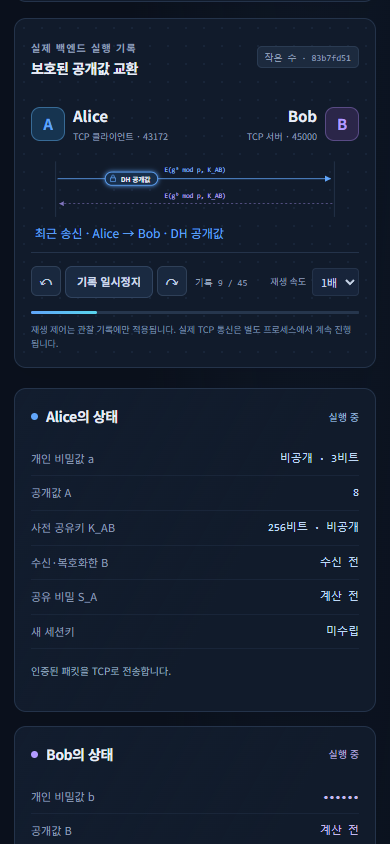
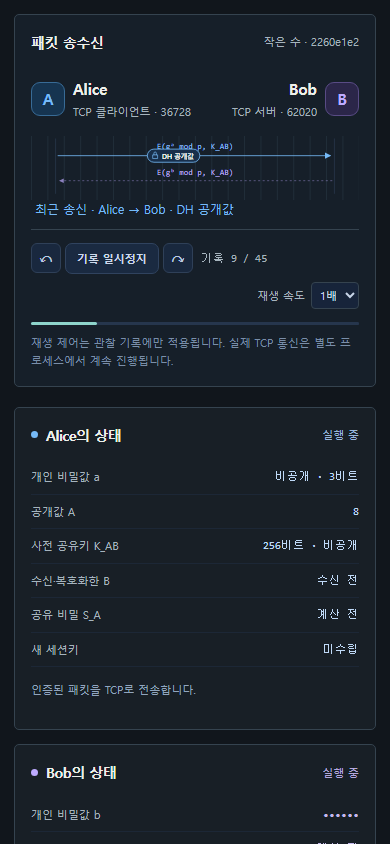
Refine the protocol lab interface and documentation media

diff --git a/web/style.css b/web/style.css
@@ -1,14 +1,105 @@
-:root{color-scheme:dark;--bg:#0a101c;--panel:#111b2b;--panel2:#142034;--line:#24334a;--text:#e7edf7;--muted:#8c9db5;--cyan:#59d5ec;--blue:#60a5fa;--violet:#b29bff;--green:#68ddb1;--amber:#f6c875;--red:#ff8b9a;--mono:Consolas,'Cascadia Code',monospace}
-*{box-sizing:border-box}body{margin:0;background:radial-gradient(ellipse at 80% 0,#15263b66,transparent 45%),var(--bg);color:var(--text);font-family:Inter,'Pretendard','Noto Sans KR','Malgun Gothic',system-ui,sans-serif;font-size:14px;line-height:1.6}button,input,select,textarea{font:inherit}button,a,select{touch-action:manipulation}button{cursor:pointer}button:disabled{opacity:.45;cursor:wait}button:focus-visible,a:focus-visible,select:focus-visible,textarea:focus-visible{outline:2px solid var(--cyan);outline-offset:4px}a{color:var(--cyan);text-decoration:none}h1,h2,h3,p{margin:0}h2{font-size:16px;letter-spacing:-.4px}h3{font-size:18px;letter-spacing:-.5px}small{font-size:11px}svg{display:block}.hidden{display:none!important}.site-header{min-height:82px;padding:0 38px;display:flex;align-items:center;gap:28px;border-bottom:1px solid var(--line);background:#0b1322cc}.brand{display:flex;align-items:center;gap:12px;line-height:1.35;font-weight:700;color:var(--text);font-size:17px;white-space:nowrap}.brand small{display:block;margin-top:5px;color:var(--muted);font-weight:400;font-size:10px;letter-spacing:.6px}.brand-icon{padding:10px;border:1px solid #2f5771;border-radius:12px;background:#122a3c}.brand-icon svg{width:23px;fill:none;stroke:var(--cyan);stroke-width:1.6;stroke-linecap:round;stroke-linejoin:round}.tabs{display:flex;align-self:stretch;gap:26px;margin-left:auto}.tab{position:relative;background:none;border:0;color:var(--muted);font-weight:600;padding:0 5px;font-size:13px}.tab.active{color:var(--cyan)}.tab.active:after{content:'';position:absolute;bottom:0;height:3px;background:var(--cyan);left:0;right:0}.local-badge{display:flex;gap:8px;align-items:center;margin-left:22px;border:1px solid #29443d;color:#a5d8c5;border-radius:20px;padding:5px 12px;font-size:11px;white-space:nowrap}.dot{width:6px;height:6px;display:inline-block;border-radius:50%;background:var(--green);box-shadow:0 0 8px #68ddb133}.page{max-width:1640px;margin:auto;padding:30px 38px 0}.page-heading{display:flex;justify-content:space-between;align-items:center;gap:20px;margin-bottom:25px}.eyebrow{color:var(--muted);font-size:10px;letter-spacing:1.2px;font-weight:600}.page-heading .eyebrow{color:var(--cyan);margin-bottom:7px}h1{font-size:clamp(23px,2.2vw,32px);letter-spacing:-1.2px;font-weight:700;line-height:1.4}.page-heading p{color:var(--muted);margin-top:7px;font-size:13px}.execution-badge{padding:8px 14px;border:1px solid var(--line);border-radius:8px;font-size:12px;white-space:nowrap;background:#122032}.execution-badge .dot{margin-right:8px}.execution-badge.error{color:var(--red)}.facts{display:grid;grid-template-columns:repeat(4,1fr);gap:14px;margin-bottom:25px}.facts>div{display:flex;align-items:center;gap:13px;padding:16px 18px;background:#111c2b99;border:1px solid var(--line);border-radius:10px}.facts small{display:block;color:var(--muted);margin-bottom:3px}.facts strong{font-size:12px;font-weight:600}.fact-icon{color:var(--blue);font-size:24px;line-height:1;padding-right:5px}.lab-layout{display:grid;grid-template-columns:260px minmax(0,1fr);gap:22px;align-items:start}.panel{border:1px solid var(--line);border-radius:12px;background:linear-gradient(120deg,#13203455,transparent 60%),var(--panel);padding:22px;min-width:0;box-shadow:0 10px 30px #0000000a}.panel-title{display:flex;justify-content:space-between;align-items:center;gap:10px;margin-bottom:20px}.panel-title>div .eyebrow{margin-bottom:4px}.small-tag{font:10px var(--mono);color:var(--muted);background:#1c2a3e;border:1px solid #2a3b52;padding:4px 7px;border-radius:5px;white-space:nowrap}.settings{position:sticky;top:20px;padding:20px}.settings .panel-title{margin-bottom:24px}.settings label{display:block;font-size:12px;font-weight:600;color:#b9c8dc;margin-bottom:8px}.settings select,.settings textarea{width:100%;background:#0c1524;border:1px solid #2e4059;border-radius:7px;padding:10px 11px;color:var(--text);font-size:12px;line-height:1.6}.settings select{padding-right:20px}.settings textarea{resize:vertical;min-height:90px}.parameters{padding:13px 1px 7px}.parameters>div{display:flex;justify-content:space-between;gap:8px;font-size:11px;padding:5px 0}.parameters span{color:var(--muted)}.parameters strong{font-weight:500;font-family:var(--mono);color:#b4c3d8}.notice{font-size:11px;line-height:1.8;color:#a9c5de;background:#10283a;border:1px solid #25465d;border-radius:7px;padding:12px;margin:14px 0 22px}.notice.warning{color:var(--amber);background:#32291a;border-color:#5a4629}.notice.error{color:var(--red);background:#321d2a;border-color:#643546}.input-help{color:var(--muted);font-size:11px;line-height:1.8;margin-top:9px;margin-bottom:18px}.button{display:inline-flex;justify-content:center;align-items:center;gap:7px;border:1px solid #30435f;border-radius:7px;color:#cedaec;background:#1a2a41;padding:10px 15px;font-weight:600;font-size:12px;transition:background .18s,transform .18s}.button:hover:not(:disabled){background:#253b56}.button.primary{background:#479ff2;border-color:#5fb1f8;color:#061425;box-shadow:0 4px 18px #2296ec23}.button.primary:hover:not(:disabled){background:#73bdfb;transform:translateY(-1px)}.settings .button{width:100%;margin-top:8px;min-height:42px}.button.subtle{background:transparent;color:var(--muted);border-color:var(--line)}.button.compact{font-size:11px;padding:6px 11px;min-height:30px}.settings-footer{display:flex;align-items:center;gap:9px;color:var(--muted);border-top:1px solid var(--line);margin-top:24px;padding-top:18px;font-size:10px}.mini-lock{font-size:19px;color:#6d8aab}.workspace{min-width:0}.workspace>.panel,.tab-content>.panel{margin-bottom:20px}.network-panel{padding-bottom:15px;background-image:radial-gradient(#24354d66 1px,transparent 1px);background-size:18px 18px}.network-panel .panel-title{margin-bottom:24px}.network-endpoints{display:flex;align-items:center;justify-content:space-between;gap:12px;padding:0 18px}.endpoint{display:flex;align-items:center;gap:11px}.avatar{display:flex;justify-content:center;align-items:center;width:44px;height:44px;border-radius:12px;border:1px solid #386b96;background:#163450;color:var(--blue);font-weight:700;font-size:19px}.bob .avatar{color:var(--violet);background:#2b2649;border-color:#594b85}.endpoint strong{display:block;font-size:17px}.endpoint small{display:block;color:var(--muted);font-size:10px;margin-top:2px}.endpoint.bob{text-align:right}.network-security{font-size:11px;color:#7f9bb8}.network-security span{margin-right:5px;color:var(--cyan)}.network-svg{width:100%;height:auto;max-height:180px;overflow:visible;margin-top:8px}.route{stroke-width:1.4;stroke-dasharray:5 6;fill:none;opacity:.7}.route-a{stroke:var(--blue)}.route-b{stroke:var(--violet)}.network-spine{stroke:#39506c;stroke-width:1;fill:none}.arrow-a{fill:var(--blue)}.arrow-b{fill:var(--violet)}.formula{font-family:var(--mono);font-size:14px}.formula-a{fill:#87b8f3}.formula-b{fill:#b4a6eb}.eve-strip{display:flex;gap:10px;align-items:center;color:var(--amber);font-size:11px;border:1px solid #655032;border-radius:6px;background:#30291d;padding:9px 12px;margin:5px 0 15px}.eve-strip span{color:#cbb18b;margin-left:auto}.playback{display:flex;align-items:center;gap:16px;border-top:1px solid var(--line);padding-top:13px;margin-top:7px}.playback-buttons{display:flex;gap:5px}.icon-button{width:30px;height:30px;background:#19283e;border:1px solid #2f4058;border-radius:6px;color:#bdcbe0;font-size:17px}.playback>span{font:10px var(--mono);color:var(--muted)}.speed-label{margin-left:auto;font-size:10px;color:var(--muted);display:flex;gap:6px;align-items:center}.speed-label select{border:1px solid var(--line);background:#17243a;color:#c7d4e7;border-radius:4px;font-size:11px;padding:4px}progress{appearance:none;width:100%;height:3px;border:0;display:block;margin-top:13px;border-radius:5px;background:#26364d}progress::-webkit-progress-bar{background:#26364d;border-radius:5px}progress::-webkit-progress-value{background:linear-gradient(90deg,var(--blue),var(--cyan));border-radius:5px}progress::-moz-progress-bar{background:var(--cyan)}.playback-note{margin-top:9px;font-size:10px;color:#7a8ea8}.peer-grid{display:grid;grid-template-columns:1fr 1fr;gap:18px}.peer{padding:19px 20px}.peer h2{display:flex;align-items:center;gap:8px;font-size:14px}.peer-dot{width:7px;height:7px;border-radius:50%;background:var(--blue)}.bob .peer-dot{background:var(--violet)}.peer .panel-title{margin-bottom:14px}.peer-status{font-size:10px;color:#9ab7d9}.bob .peer-status{color:#b4a8db}.peer dl{margin:0;font-size:11px}.peer dl>div{display:grid;grid-template-columns:125px minmax(0,1fr);gap:8px;padding:8px 0;border-bottom:1px solid #23314877}.peer dt{color:var(--muted)}.peer dd{margin:0;font-family:var(--mono);text-align:right;overflow:hidden;text-overflow:ellipsis;white-space:nowrap;color:#bfd9f7}.bob dd{color:#c3b8ec}.peer-operation{margin-top:14px;font-size:10px;color:#91a5be;min-height:32px}.disclosure-row{display:flex;gap:10px;justify-content:space-between;padding:9px 1px 20px;font-size:10px;color:var(--muted)}.text-button{border:0;background:none;color:var(--cyan);font-size:10px;padding:0}.stages{display:grid;grid-template-columns:repeat(6,1fr);gap:7px;margin-bottom:20px}.stage-button{border:1px solid #2c3e56;background:#152237;border-radius:7px;color:#8fa3be;font-size:10px;padding:9px 4px;line-height:1.5}.stage-button span{display:block;margin-bottom:3px;font:10px var(--mono);color:#6e8aa9}.stage-button.active{background:#19314b;border-color:#458fc3;color:var(--cyan)}.stage-button.done span{color:var(--green)}.explanation{display:grid;grid-template-columns:1fr 1fr;gap:25px;align-items:center}.explanation h3{font-size:16px;margin:6px 0 8px}.explanation p{font-size:11px;color:#a6b6ca}.explanation .security-note{font-size:10px;margin-top:9px;color:#7f9bb8}.formula-box{display:flex;flex-direction:column;gap:12px;background:#0b1525;border:1px solid #273b55;border-radius:8px;padding:22px}.formula-box code{color:#7bcdf9;font-size:15px;line-height:1.6;overflow-wrap:anywhere;font-family:var(--mono)}.formula-box span{color:var(--muted);font-size:10px;word-break:break-word}.packet-panel .panel-title>div{display:flex;align-items:center;gap:8px}.packet-list{display:flex;gap:7px;flex-wrap:wrap;margin-bottom:12px}.packet-chip{background:#19283d;border:1px solid #2f4058;color:#a6bad3;border-radius:5px;font-size:10px;padding:5px 9px}.packet-chip.active{border-color:#519fcc;color:var(--cyan)}pre{font:11px/1.8 var(--mono);margin:0;padding:16px;border:1px solid #263b53;border-radius:7px;background:#091322;color:#a7c5df;overflow:auto;max-height:260px;white-space:pre-wrap;overflow-wrap:anywhere;tab-size:2}.packet-panel .input-help{margin-bottom:0}.result-grid{display:grid;grid-template-columns:repeat(4,1fr);gap:12px}.result-grid>div{padding:14px;border:1px solid var(--line);border-radius:7px;background:#0e192b}.result-grid span{display:block;color:var(--muted);font-size:10px;margin-bottom:8px}.result-grid strong{font-size:12px;font-weight:600}.good{color:var(--green)!important}.bad{color:var(--red)!important}.warn{color:var(--amber)!important}.chat-results{display:grid;grid-template-columns:1fr 1fr;gap:12px;margin-top:15px}.chat-message{border-left:2px solid var(--blue);background:#14243a;padding:12px 15px;border-radius:0 6px 6px 0;overflow-wrap:anywhere}.chat-message.bob{border-color:var(--violet)}.chat-message small{display:block;font-size:10px;color:var(--muted);margin-bottom:5px}.chat-message p{font-size:12px;color:#c8d8eb}.test-total{color:var(--green);font-size:11px;margin-left:8px}.test-grid{display:grid;grid-template-columns:repeat(4,1fr);gap:8px}.test-item{padding:10px;border:1px solid #283b50;border-radius:6px;font-size:10px;display:flex;gap:7px;align-items:center;line-height:1.5}.test-item span{font:9px var(--mono);color:#7f98b6}.test-item i{font-style:normal;margin-left:auto;color:var(--green)}.event-log{max-height:290px;overflow:auto;font-size:10px;font-family:var(--mono);scrollbar-width:thin}.log-entry{display:grid;grid-template-columns:75px 70px 1fr;gap:10px;padding:8px 4px;border-bottom:1px solid #23324b55;align-items:baseline}.log-entry time{color:#7188a3}.log-entry strong{color:var(--blue);font-weight:400}.log-entry.bob strong{color:var(--violet)}.log-entry.eve strong{color:var(--amber)}.log-entry p{color:#a8bbd2;overflow-wrap:anywhere}.log-entry.error p{color:var(--red)}.section-intro{padding:8px 0 23px}.section-intro h2{font-size:25px;margin:8px 0}.section-intro p{font-size:12px;color:var(--muted);max-width:750px}.attack-grid{display:grid;grid-template-columns:repeat(3,1fr);gap:16px;margin-bottom:20px}.attack-card{padding:20px;border:1px solid var(--line);border-radius:10px;background:#122034;display:flex;flex-direction:column}.attack-card .attack-number{font:11px var(--mono);color:var(--cyan);margin-bottom:13px}.attack-card h3{font-size:14px;margin-bottom:9px}.attack-card p{color:#92a7c1;font-size:11px;margin-bottom:17px;flex:1}.attack-card .button{align-self:flex-start}.guide-grid{display:grid;grid-template-columns:1fr 1fr;gap:16px}.guide-card{padding:25px}.guide-number{color:var(--cyan);font:12px var(--mono)}.guide-card h3{margin:13px 0;font-size:16px}.guide-card p{color:#9cb0c8;font-size:12px;line-height:1.9}.guide-card code{display:block;margin-top:18px;font-family:var(--mono);font-size:11px;color:#9bc9ec}.sources{font-size:11px;color:var(--muted);margin:20px 0 25px}footer{padding:30px 0;text-align:center;color:#6e829d;font-size:10px}#error{margin-bottom:20px}.tests-panel .input-help{margin-top:-7px}.result-grid+.notice{margin-bottom:0}
+:root {
+  color-scheme: dark;
+  --bg: #11161c;
+  --panel: #181f26;
+  --panel2: #202932;
+  --line: #35434f;
+  --text: #eef0eb;
+  --muted: #a6b4be;
+  --cyan: #8ed4cb;
+  --blue: #76baf7;
+  --violet: #beabff;
+  --green: #8edcbe;
+  --amber: #f6c875;
+  --red: #ff9cad;
+  --mono: Consolas, 'Cascadia Code', monospace;
+}
+
+*{box-sizing:border-box}body {
+  margin: 0;
+  background: var(--bg);
+  color: var(--text);
+  font-family: 'Malgun Gothic', system-ui, sans-serif;
+  font-size: 14px;
+  line-height: 1.6;
+}
+::selection { background: #315c59; color: var(--text); }
+button,input,select,textarea{font:inherit}button,a,select{touch-action:manipulation}button{cursor:pointer}button:disabled{opacity:.45;cursor:wait}button:focus-visible,a:focus-visible,select:focus-visible,textarea:focus-visible{outline:2px solid var(--cyan);outline-offset:4px}a{color:var(--cyan);text-decoration:none}h1,h2,h3,p{margin:0}h2{font-size:16px;letter-spacing:-.4px}h3{font-size:18px;letter-spacing:-.5px}small{font-size:11px}svg{display:block}.hidden{display:none!important}.site-header {
+  min-height: 64px;
+  padding: 0 38px;
+  display: flex;
+  align-items: center;
+  gap: 28px;
+  border-bottom: 1px solid var(--line);
+  background: var(--panel);
+}
+.brand{display:flex;align-items:center;gap:12px;line-height:1.35;font-weight:700;color:var(--text);font-size:17px;white-space:nowrap}.brand-icon { padding: 5px; }
+.brand-icon svg{width:23px;fill:none;stroke:var(--cyan);stroke-width:1.6;stroke-linecap:round;stroke-linejoin:round}.tabs{display:flex;align-self:stretch;gap:26px;margin-left:auto}.tab{position:relative;background:none;border:0;color:var(--muted);font-weight:600;padding:0 5px;font-size:13px}.tab.active{color:var(--cyan)}.tab.active:after{content:'';position:absolute;bottom:0;height:3px;background:var(--cyan);left:0;right:0}.page{max-width:1640px;margin:auto;padding:30px 38px 0}.page-heading {
+  display: flex;
+  justify-content: space-between;
+  align-items: center;
+  gap: 20px;
+  margin-bottom: 20px;
+}
+.eyebrow{color:var(--muted);font-size:11px;letter-spacing:1.2px;font-weight:600}h1 { font-size: 30px; letter-spacing: -0.025em; font-weight: 700; line-height: 1.4; }
+.page-heading p{color:var(--muted);margin-top:7px;font-size:13px}.execution-badge { color: var(--muted); font-size: 12px; }
+.execution-badge::before {
+  content: '';
+  display: inline-block;
+  width: 0.45rem;
+  height: 0.45rem;
+  margin-right: 0.55rem;
+  background: var(--green);
+  border-radius: 50%;
+  vertical-align: 0.12em;
+}
+.execution-badge.error::before { background: currentColor; }
+.execution-badge.error{color:var(--red)}.facts {
+  display: grid;
+  grid-template-columns: repeat(4, minmax(0, 1fr));
+  padding: 10px 0;
+  border-block: 1px solid var(--line);
+  margin-bottom: 24px;
+}
+.facts > div { min-width: 0; padding: 2px 16px; }
+.facts > div:first-child { padding-left: 0; }
+.facts > div + div { border-left: 1px solid var(--line); }
+.facts small { display: block; color: var(--muted); }
+.facts strong { font: 12px var(--mono); color: var(--text); overflow-wrap: anywhere; }
+.lab-layout{display:grid;grid-template-columns:260px minmax(0,1fr);gap:22px;align-items:start}.panel {
+  border: 1px solid var(--line);
+  border-radius: 5px;
+  background: var(--panel);
+  padding: 22px;
+  min-width: 0;
+}
+.panel-title{display:flex;justify-content:space-between;align-items:center;gap:10px;margin-bottom:20px}.small-tag { font-size: 11px; color: var(--muted); }
+.settings{position:sticky;top:20px;padding:20px}.settings .panel-title{margin-bottom:24px}.settings label{display:block;font-size:12px;font-weight:600;color:#b9c8dc;margin-bottom:8px}.settings select,.settings textarea { width: 100%; background: var(--bg); border: 1px solid var(--line); border-radius: 4px; padding: 10px 11px; color: var(--text); font-size: 12px; line-height: 1.6; }
+.settings select{padding-right:20px}.settings textarea{resize:vertical;min-height:90px}.parameters{padding:13px 1px 7px}.parameters>div{display:flex;justify-content:space-between;gap:8px;font-size:11px;padding:5px 0}.parameters span{color:var(--muted)}.parameters strong{font-weight:500;font-family:var(--mono);color:#b4c3d8}.notice{font-size:11px;line-height:1.8;color:#a9c5de;background:#10283a;border:1px solid #25465d;border-radius:7px;padding:12px;margin:14px 0 22px}.notice.warning{color:var(--amber);background:#32291a;border-color:#5a4629}.notice.error{color:var(--red);background:#321d2a;border-color:#643546}.input-help{color:var(--muted);font-size:11px;line-height:1.8;margin-top:9px;margin-bottom:18px}.button{display:inline-flex;justify-content:center;align-items:center;gap:7px;border:1px solid #30435f;border-radius:7px;color:#cedaec;background:#1a2a41;padding:10px 15px;font-weight:600;font-size:12px;transition:background .18s,transform .18s}.button:hover:not(:disabled){background:#253b56}.button.primary { background: var(--cyan); border-color: var(--cyan); color: #0c2523; }
+.button.primary:hover:not(:disabled) { background: #b4e9e2; }
+.settings .button{width:100%;margin-top:8px;min-height:42px}.button.subtle{background:transparent;color:var(--muted);border-color:var(--line)}.button.compact{font-size:11px;padding:6px 11px;min-height:30px}.settings-footer{display:flex;align-items:center;gap:9px;color:var(--muted);border-top:1px solid var(--line);margin-top:24px;padding-top:18px;font-size:11px}.mini-lock{font-size:19px;color:#6d8aab}.workspace{min-width:0}.workspace>.panel,.tab-content>.panel{margin-bottom:20px}.network-panel { padding-bottom: 15px; background: #161f29; }
+.network-panel .panel-title{margin-bottom:24px}.network-endpoints{display:flex;align-items:center;justify-content:space-between;gap:12px;padding:0 18px}.endpoint{display:flex;align-items:center;gap:11px}.avatar{display:flex;justify-content:center;align-items:center;width:44px;height:44px;border-radius:12px;border:1px solid #386b96;background:#163450;color:var(--blue);font-weight:700;font-size:19px}.bob .avatar{color:var(--violet);background:#2b2649;border-color:#594b85}.endpoint strong{display:block;font-size:17px}.endpoint small{display:block;color:var(--muted);font-size:11px;margin-top:2px}.endpoint.bob{text-align:right}.network-security{font-size:11px;color:#7f9bb8}.network-svg {
+  width: 100%;
+  height: auto;
+  max-height: 180px;
+  overflow: visible;
+  margin-top: 8px;
+  background-image: linear-gradient(90deg, #30445166 1px, transparent 1px);
+  background-size: 5% 100%;
+}
+.route{stroke-width:1.4;stroke-dasharray:5 6;fill:none;opacity:.7}.route-a{stroke:var(--blue)}.route-b{stroke:var(--violet)}.network-spine{stroke:#39506c;stroke-width:1;fill:none}.arrow-a{fill:var(--blue)}.arrow-b{fill:var(--violet)}.formula{font-family:var(--mono);font-size:14px}.formula-a{fill:#87b8f3}.formula-b{fill:#b4a6eb}.eve-strip{display:flex;gap:10px;align-items:center;color:var(--amber);font-size:11px;border:1px solid #655032;border-radius:6px;background:#30291d;padding:9px 12px;margin:5px 0 15px}.eve-strip span{color:#cbb18b;margin-left:auto}.playback{display:flex;align-items:center;gap:16px;border-top:1px solid var(--line);padding-top:13px;margin-top:7px}.playback-buttons{display:flex;gap:5px}.icon-button{width:30px;height:30px;background:#19283e;border:1px solid #2f4058;border-radius:6px;color:#bdcbe0;font-size:17px}.playback>span{font:11px var(--mono);color:var(--muted)}.speed-label{margin-left:auto;font-size:11px;color:var(--muted);display:flex;gap:6px;align-items:center}.speed-label select{border:1px solid var(--line);background:#17243a;color:#c7d4e7;border-radius:4px;font-size:11px;padding:4px}progress{appearance:none;width:100%;height:3px;border:0;display:block;margin-top:13px;border-radius:5px;background:#26364d}progress::-webkit-progress-bar{background:#26364d;border-radius:5px}progress::-webkit-progress-value { background: var(--cyan); border-radius: 5px; }
+progress::-moz-progress-bar{background:var(--cyan)}.playback-note{margin-top:9px;font-size:11px;color:#7a8ea8}.peer-grid{display:grid;grid-template-columns:1fr 1fr;gap:18px}.peer{padding:19px 20px}.peer h2{display:flex;align-items:center;gap:8px;font-size:14px}.peer-dot{width:7px;height:7px;border-radius:50%;background:var(--blue)}.bob .peer-dot{background:var(--violet)}.peer .panel-title{margin-bottom:14px}.peer-status{font-size:11px;color:#9ab7d9}.bob .peer-status{color:#b4a8db}.peer dl{margin:0;font-size:11px}.peer dl>div{display:grid;grid-template-columns:125px minmax(0,1fr);gap:8px;padding:8px 0;border-bottom:1px solid #23314877}.peer dt{color:var(--muted)}.peer dd{margin:0;font-family:var(--mono);text-align:right;overflow:hidden;text-overflow:ellipsis;white-space:nowrap;color:#bfd9f7}.bob dd{color:#c3b8ec}.peer-operation{margin-top:14px;font-size:11px;color:#91a5be;min-height:32px}.disclosure-row{display:flex;gap:10px;justify-content:space-between;padding:9px 1px 20px;font-size:11px;color:var(--muted)}.text-button{border:0;background:none;color:var(--cyan);font-size:11px;padding:0}.stages{display:grid;grid-template-columns:repeat(6,1fr);gap:7px;margin-bottom:20px}.stage-button{border:1px solid #2c3e56;background:#152237;border-radius:7px;color:#8fa3be;font-size:11px;padding:9px 4px;line-height:1.5}.stage-button span{display:block;margin-bottom:3px;font:11px var(--mono);color:#6e8aa9}.stage-button.active{background:#19314b;border-color:#458fc3;color:var(--cyan)}.stage-button.done span{color:var(--green)}.explanation{display:grid;grid-template-columns:1fr 1fr;gap:25px;align-items:center}.explanation h3{font-size:16px;margin:6px 0 8px}.explanation p{font-size:11px;color:#a6b6ca}.explanation .security-note{font-size:11px;margin-top:9px;color:#7f9bb8}.formula-box{display:flex;flex-direction:column;gap:12px;background:#0b1525;border:1px solid #273b55;border-radius:8px;padding:22px}.formula-box code{color:#7bcdf9;font-size:15px;line-height:1.6;overflow-wrap:anywhere;font-family:var(--mono)}.formula-box span{color:var(--muted);font-size:11px;word-break:break-word}.packet-panel .panel-title>div{display:flex;align-items:center;gap:8px}.packet-list{display:flex;gap:7px;flex-wrap:wrap;margin-bottom:12px}.packet-chip{background:#19283d;border:1px solid #2f4058;color:#a6bad3;border-radius:5px;font-size:11px;padding:5px 9px}.packet-chip.active{border-color:#519fcc;color:var(--cyan)}pre{font:11px/1.8 var(--mono);margin:0;padding:16px;border:1px solid #263b53;border-radius:7px;background:#091322;color:#a7c5df;overflow:auto;max-height:260px;white-space:pre-wrap;overflow-wrap:anywhere;tab-size:2}.packet-panel .input-help{margin-bottom:0}.result-grid{display:grid;grid-template-columns:repeat(4,1fr);gap:12px}.result-grid>div{padding:14px;border:1px solid var(--line);border-radius:7px;background:#0e192b}.result-grid span{display:block;color:var(--muted);font-size:11px;margin-bottom:8px}.result-grid strong{font-size:12px;font-weight:600}.good{color:var(--green)!important}.bad{color:var(--red)!important}.warn{color:var(--amber)!important}.chat-results{display:grid;grid-template-columns:1fr 1fr;gap:12px;margin-top:15px}.chat-message { border-left: 1px solid var(--blue); background: var(--panel2); padding: 12px 15px; border-radius: 0 4px 4px 0; overflow-wrap: anywhere; }
+.chat-message.bob{border-color:var(--violet)}.chat-message small{display:block;font-size:11px;color:var(--muted);margin-bottom:5px}.chat-message p{font-size:12px;color:#c8d8eb}.test-total{color:var(--green);font-size:11px;margin-left:8px}.test-grid{display:grid;grid-template-columns:repeat(4,1fr);gap:8px}.test-item{padding:10px;border:1px solid #283b50;border-radius:6px;font-size:11px;display:flex;gap:7px;align-items:center;line-height:1.5}.test-item span{font:11px var(--mono);color:#7f98b6}.test-item i{font-style:normal;margin-left:auto;color:var(--green)}.event-log{max-height:290px;overflow:auto;font-size:11px;font-family:var(--mono);scrollbar-width:thin}.log-entry{display:grid;grid-template-columns:75px 70px 1fr;gap:10px;padding:8px 4px;border-bottom:1px solid #23324b55;align-items:baseline}.log-entry time{color:#7188a3}.log-entry strong{color:var(--blue);font-weight:400}.log-entry.bob strong{color:var(--violet)}.log-entry.eve strong{color:var(--amber)}.log-entry p{color:#a8bbd2;overflow-wrap:anywhere}.log-entry.error p{color:var(--red)}.section-intro{padding:8px 0 23px}.section-intro h2{font-size:25px;margin:8px 0}.section-intro p{font-size:12px;color:var(--muted);max-width:750px}.attack-grid{display:grid;grid-template-columns:repeat(3,1fr);gap:16px;margin-bottom:20px}.attack-card { padding: 20px; border: 1px solid var(--line); border-radius: 5px; background: var(--panel); display: flex; flex-direction: column; }
+.attack-card .attack-number{font:11px var(--mono);color:var(--cyan);margin-bottom:13px}.attack-card h3{font-size:14px;margin-bottom:9px}.attack-card p{color:#92a7c1;font-size:11px;margin-bottom:17px;flex:1}.attack-card .button{align-self:flex-start}.guide-grid{display:grid;grid-template-columns:1fr 1fr;gap:16px}.guide-card{padding:25px}.guide-number{color:var(--cyan);font:12px var(--mono)}.guide-card h3{margin:13px 0;font-size:16px}.guide-card p{color:#9cb0c8;font-size:12px;line-height:1.9}.guide-card code{display:block;margin-top:18px;font-family:var(--mono);font-size:11px;color:#9bc9ec}.sources{font-size:11px;color:var(--muted);margin:20px 0 25px}footer{padding:30px 0;text-align:center;color:#6e829d;font-size:11px}#error{margin-bottom:20px}.tests-panel .input-help{margin-top:-7px}.result-grid+.notice{margin-bottom:0}
 @media(min-width:1500px){.network-svg{max-height:205px}.panel{padding:25px}.settings{padding:22px}.peer dl>div{padding:10px 0}}
-@media(max-width:1150px){.page{padding:25px 22px 0}.site-header{padding:0 22px;gap:15px}.tabs{gap:15px}.local-badge{margin-left:8px}.lab-layout{grid-template-columns:235px minmax(0,1fr);gap:16px}.panel{padding:18px}.peer dl>div{grid-template-columns:105px minmax(0,1fr)}.attack-grid{grid-template-columns:1fr 1fr}.test-grid{grid-template-columns:repeat(3,1fr)}.result-grid{grid-template-columns:1fr 1fr}.network-endpoints{padding:0}.network-security{font-size:10px}.explanation{gap:14px}.stages{gap:4px}.stage-button{font-size:9px}}
-@media(max-width:850px){.site-header{flex-wrap:wrap;padding-top:15px;gap:10px}.tabs{order:3;width:100%;min-height:46px;gap:25px;margin:4px 0 0}.local-badge{margin-left:auto}.page-heading{align-items:flex-start}.execution-badge{font-size:10px}.facts{grid-template-columns:1fr 1fr;gap:9px;margin-bottom:18px}.facts>div{padding:11px 13px}.lab-layout{grid-template-columns:1fr}.settings{position:static;display:grid;grid-template-columns:1fr 1fr;column-gap:20px}.settings .panel-title,.settings .parameters,.settings .notice,.settings .input-help,.settings label,.settings select,.settings textarea{grid-column:1/-1}.settings .parameters{display:flex;gap:25px;flex-wrap:wrap}.parameters>div{gap:15px}.settings-footer{grid-column:1/-1;margin-top:15px}.settings textarea{min-height:65px}.settings .notice{margin-bottom:18px}.settings label{margin-top:5px}.network-svg{max-height:155px}.settings .input-help{margin-bottom:10px}.workspace{width:100%}.explanation{gap:25px}}
-@media(max-width:520px){.page{padding:22px 14px 0}.site-header{padding:14px 16px 0}.brand{font-size:15px}.brand small{font-size:9px}.brand-icon{padding:8px}.tabs{gap:20px;justify-content:space-between}.tab{font-size:12px}.local-badge{font-size:10px;padding:4px 8px}.page-heading{display:block}.page-heading h1{font-size:25px}.page-heading p{font-size:11px}.execution-badge{display:inline-block;margin-top:14px}.facts{gap:7px}.facts>div{gap:7px;padding:10px}.fact-icon{font-size:20px}.facts strong{font-size:10px}.facts small{font-size:9px}.panel{padding:16px}.peer-grid,.explanation,.guide-grid,.chat-results{grid-template-columns:1fr;gap:14px}.peer dl>div{grid-template-columns:140px minmax(0,1fr)}.network-endpoints{gap:7px}.avatar{width:34px;height:34px;font-size:15px;border-radius:9px}.endpoint{gap:8px}.endpoint strong{font-size:15px}.endpoint small{font-size:9px}.network-security{display:none}.network-svg{margin-top:15px}.formula{font-size:16px}.playback{gap:8px;flex-wrap:wrap}.playback-buttons{gap:4px}.playback>span{font-size:9px}.speed-label{font-size:9px}.playback-note{font-size:9px}.stages{grid-template-columns:repeat(3,1fr);gap:6px}.stage-button{font-size:10px}.stages .stage-button span{display:inline;margin-right:5px}.explanation .formula-box{padding:15px}.disclosure-row{font-size:9px;align-items:center}.text-button{font-size:9px;white-space:nowrap}.panel-title h2{font-size:14px}.result-grid{gap:8px}.result-grid>div{padding:11px}.test-grid{grid-template-columns:1fr 1fr}.test-item{font-size:9px;padding:8px}.test-total{font-size:10px}.tests-panel .panel-title{flex-wrap:wrap}.attack-grid{grid-template-columns:1fr}.log-entry{grid-template-columns:60px 44px 1fr;gap:5px;font-size:9px}.eve-strip{flex-wrap:wrap;font-size:10px}.eve-strip span{margin-left:0;width:100%}.panel-title .small-tag{font-size:9px}footer{line-height:1.9;padding:25px 10px}}
+@media(max-width:1150px){.page{padding:25px 22px 0}.site-header{padding:0 22px;gap:15px}.tabs{gap:15px}.lab-layout{grid-template-columns:235px minmax(0,1fr);gap:16px}.panel{padding:18px}.peer dl>div{grid-template-columns:105px minmax(0,1fr)}.attack-grid{grid-template-columns:1fr 1fr}.test-grid{grid-template-columns:repeat(3,1fr)}.result-grid{grid-template-columns:1fr 1fr}.network-endpoints{padding:0}.network-security{font-size:11px}.explanation{gap:14px}.stages{gap:4px}.stage-button{font-size:11px}}
+@media(max-width:850px){.site-header{flex-wrap:wrap;padding-top:15px;gap:10px}.tabs{order:3;width:100%;min-height:46px;gap:25px;margin:4px 0 0}.page-heading{align-items:flex-start}.execution-badge{font-size:11px}.facts{grid-template-columns:1fr 1fr;row-gap:8px;margin-bottom:18px}.facts>div{padding:2px 12px}.facts>div:nth-child(3){padding-left:0;border-left:0}.lab-layout{grid-template-columns:1fr}.settings{position:static;display:grid;grid-template-columns:1fr 1fr;column-gap:20px}.settings .panel-title,.settings .parameters,.settings .notice,.settings .input-help,.settings label,.settings select,.settings textarea{grid-column:1/-1}.settings .parameters{display:flex;gap:25px;flex-wrap:wrap}.parameters>div{gap:15px}.settings-footer{grid-column:1/-1;margin-top:15px}.settings textarea{min-height:65px}.settings .notice{margin-bottom:18px}.settings label{margin-top:5px}.network-svg{max-height:155px}.settings .input-help{margin-bottom:10px}.workspace{width:100%}.explanation{gap:25px}}
+@media(max-width:520px){.page{padding:22px 14px 0}.site-header{padding:14px 16px 0}.brand{font-size:15px}.brand-icon{padding:8px}.tabs{gap:20px;justify-content:space-between}.tab{font-size:12px}.page-heading{display:block}.page-heading h1{font-size:25px}.page-heading p{font-size:11px}.execution-badge{display:inline-block;margin-top:14px}.facts strong{font-size:11px}.facts small{font-size:11px}.panel{padding:16px}.peer-grid,.explanation,.guide-grid,.chat-results{grid-template-columns:1fr;gap:14px}.peer dl>div{grid-template-columns:140px minmax(0,1fr)}.network-endpoints{gap:7px}.avatar{width:34px;height:34px;font-size:15px;border-radius:9px}.endpoint{gap:8px}.endpoint strong{font-size:15px}.endpoint small{font-size:11px}.network-security{display:none}.network-svg{margin-top:15px}.formula{font-size:20px}.playback{gap:8px;flex-wrap:wrap}.playback-buttons{gap:4px}.playback>span{font-size:11px}.speed-label{font-size:11px}.playback-note{font-size:11px}.stages{grid-template-columns:repeat(3,1fr);gap:6px}.stage-button{font-size:11px}.stages .stage-button span{display:inline;margin-right:5px}.explanation .formula-box{padding:15px}.disclosure-row{font-size:11px;align-items:center}.text-button{font-size:11px;white-space:nowrap}.panel-title h2{font-size:14px}.result-grid{gap:8px}.result-grid>div{padding:11px}.test-grid{grid-template-columns:1fr 1fr}.test-item{font-size:11px;padding:8px}.test-total{font-size:11px}.tests-panel .panel-title{flex-wrap:wrap}.attack-grid{grid-template-columns:1fr}.log-entry{grid-template-columns:60px 44px 1fr;gap:5px;font-size:11px}.eve-strip{flex-wrap:wrap;font-size:11px}.eve-strip span{margin-left:0;width:100%}.panel-title .small-tag{font-size:11px}footer{line-height:1.9;padding:25px 10px}}
 .network-svg[data-sender="alice"]{--packet-color:var(--blue);--packet-fill:#182f4b}
 .network-svg[data-sender="bob"]{--packet-color:var(--violet);--packet-fill:#2b2449}
 .network-svg[data-sender="alice"] .route-a,
 .network-svg[data-sender="bob"] .route-b{stroke:var(--packet-color);stroke-width:2;stroke-dasharray:none;opacity:1}
-#packet-animation rect{fill:var(--packet-fill);stroke:var(--packet-color);stroke-width:2;filter:drop-shadow(0 0 6px var(--packet-color))}
+#packet-animation rect{fill:var(--packet-fill);stroke:var(--packet-color);stroke-width:2}
 #packet-animation path{fill:none;stroke:var(--packet-color);stroke-width:1.7;stroke-linecap:round;stroke-linejoin:round}
 #packet-animation text{fill:var(--text);font-size:16px;font-weight:700}
 .transfer-status{margin:0 0 10px;padding:0 4px;color:var(--muted);font-size:12px}

diff --git a/web/index.html b/web/index.html
@@ -3,7 +3,7 @@
 <head>
   <meta charset="utf-8">
   <meta name="viewport" content="width=device-width, initial-scale=1">
-  <meta name="theme-color" content="#0a101c">
+  <meta name="theme-color" content="#11161c">
   <meta name="description" content="작은 수 계산부터 실제 TCP 패킷 관찰까지, Diffie–Hellman 키 교환을 눈으로 배우는 로컬 암호 통신 학습 실험실">
   <title>암호화된 DH 키 교환 · 프로토콜 실험실</title>
   <link rel="icon" href="/favicon.svg" type="image/svg+xml">
@@ -14,32 +14,31 @@
   <header class="site-header">
     <a class="brand" href="/" aria-label="프로토콜 실험실 홈">
       <span class="brand-icon"><svg viewBox="0 0 24 24" aria-hidden="true"><path d="M12 2 3 6v6c0 5 9 10 9 10s9-5 9-10V6Z"/><path d="m8 12 3 3 5-6"/></svg></span>
-      <span>프로토콜 실험실<small>정보보안 학습 · 로컬 TCP 실습</small></span>
+      <span>프로토콜 실험실</span>
     </a>
     <nav class="tabs" aria-label="주요 화면">
       <button class="tab active" data-tab="experiment" aria-selected="true">프로토콜 실습</button>
       <button class="tab" data-tab="security" aria-selected="false">보안 실험실</button>
       <button class="tab" data-tab="guide" aria-selected="false">학습 가이드</button>
     </nav>
-    <span class="local-badge"><i class="dot"></i> 학습용 · 로컬 실행</span>
   </header>
 
   <main class="page">
     <div class="page-heading">
-      <div><div class="eyebrow">암호 통신 학습 / 실습 01</div><h1>암호화된 DH 키 교환</h1><p>작은 수로 원리를 익히고, 실제 패킷으로 암호 통신을 관찰하세요.</p></div>
-      <div class="execution-badge" id="backend-status" role="status"><i class="dot"></i> 실행 준비</div>
+      <div><h1>암호화된 DH 키 교환</h1><p>작은 수로 원리를 익히고, 실제 패킷으로 암호 통신을 관찰하세요.</p></div>
+      <div class="execution-badge" id="backend-status" role="status">실행 준비</div>
     </div>
     <div class="facts">
-      <div><span class="fact-icon">↔</span><span><small>실제 통신</small><strong>TCP / 127.0.0.1</strong></span></div>
-      <div><span class="fact-icon">◇</span><span><small>공개값 보호</small><strong>AES-256-GCM</strong></span></div>
-      <div><span class="fact-icon">⌘</span><span><small>세션키 유도</small><strong>HKDF-SHA-256</strong></span></div>
-      <div><span class="fact-icon">✓</span><span><small>프로세스 분리</small><strong id="process-fact">Alice · Bob 독립 실행</strong></span></div>
+      <div><span><small>실제 통신</small><strong>TCP / 127.0.0.1</strong></span></div>
+      <div><span><small>공개값 보호</small><strong>AES-256-GCM</strong></span></div>
+      <div><span><small>세션키 유도</small><strong>HKDF-SHA-256</strong></span></div>
+      <div><span><small>프로세스 분리</small><strong id="process-fact">Alice · Bob 독립 실행</strong></span></div>
     </div>
     <div class="notice error hidden" id="error" role="alert"></div>
 
     <div class="lab-layout">
       <aside class="settings panel">
-        <div class="panel-title"><h2>실험 설정</h2><span class="small-tag">로컬 전용</span></div>
+        <div class="panel-title"><h2>실험 설정</h2></div>
         <label for="mode">DH 계산 모드</label>
         <select id="mode"><option value="group14">2048비트 · 표준 그룹 14</option><option value="small">작은 수 · 수학 학습</option></select>
         <div class="parameters"><div><span>소수 p</span><strong id="param-p">2048비트 MODP</strong></div><div><span>생성원 g</span><strong id="param-g">2</strong></div><div><span>공개값 검증</span><strong id="param-check">범위 + q 부분군</strong></div></div>
@@ -60,8 +59,8 @@
       <div class="workspace">
         <section id="tab-experiment" class="tab-content">
           <section class="panel network-panel">
-            <div class="panel-title"><div><span class="eyebrow">실제 백엔드 실행 기록</span><h2>보호된 공개값 교환</h2></div><span class="small-tag" id="run-label">실행 대기</span></div>
-            <div class="network-endpoints"><div class="endpoint alice"><span class="avatar">A</span><div><strong>Alice</strong><small>TCP 클라이언트 <span id="alice-pid"></span></small></div></div><div class="network-security"><span>▣</span> 사전 공유키로 보호</div><div class="endpoint bob"><div><strong>Bob</strong><small>TCP 서버 <span id="bob-pid"></span></small></div><span class="avatar">B</span></div></div>
+            <div class="panel-title"><h2>패킷 송수신</h2><span class="small-tag" id="run-label">실행 대기</span></div>
+            <div class="network-endpoints"><div class="endpoint alice"><span class="avatar">A</span><div><strong>Alice</strong><small>TCP 클라이언트 <span id="alice-pid"></span></small></div></div><div class="network-security">사전 공유키로 보호</div><div class="endpoint bob"><div><strong>Bob</strong><small>TCP 서버 <span id="bob-pid"></span></small></div><span class="avatar">B</span></div></div>
             <svg class="network-svg" viewBox="0 0 800 155" role="img" aria-label="Alice와 Bob 사이의 실제 패킷 송수신 기록을 재생하는 통신 경로">
               <defs><marker id="arrow-a" markerWidth="8" markerHeight="8" refX="7" refY="4" orient="auto"><path d="m0 0 8 4-8 4" class="arrow-a"/></marker><marker id="arrow-b" markerWidth="8" markerHeight="8" refX="7" refY="4" orient="auto"><path d="m0 0 8 4-8 4" class="arrow-b"/></marker></defs>
               <path class="network-spine" d="M60 6v135M740 6v135"/>
@@ -92,10 +91,10 @@
           <section class="panel packet-panel"><div class="panel-title"><h2>패킷 검사기</h2><div><span class="small-tag" id="packet-type">패킷 대기</span><button class="button compact" id="copy-packet">복사</button></div></div><div class="packet-list" id="packet-list"></div><pre id="packet-json">실제 송신을 시도한 패킷의 인증 header, nonce, 암호문과 태그를 확인할 수 있습니다.</pre><p class="input-help">고정 길이 DH 바이트 → AES-GCM → Base64 → JSON → 길이 프레임. 송신 시도와 수신·인증 성공은 별도로 기록합니다.</p></section>
         </section>
 
-        <section id="tab-security" class="tab-content hidden"><div class="section-intro"><span class="eyebrow">실제 패킷으로 확인하는 보안 속성</span><h2>정상 통신과 실패를 비교하세요.</h2><p>공격 실험에서는 별도 Eve 프로세스가 TCP 패킷을 변경합니다. 거부 결과는 수신 프로세스의 실제 검증 오류에 근거합니다.</p></div><div class="attack-grid" id="attack-grid"></div><div class="notice">작은 수 모드는 개인 지수를 쉽게 추측할 수 있습니다. Eve의 임의 키 복호화 실패는 작은 DH 자체의 안전성을 뜻하지 않습니다.</div></section>
+        <section id="tab-security" class="tab-content hidden"><div class="section-intro"><h2>정상 통신과 실패를 비교하세요.</h2><p>공격 실험에서는 별도 Eve 프로세스가 TCP 패킷을 변경합니다. 거부 결과는 수신 프로세스의 실제 검증 오류에 근거합니다.</p></div><div class="attack-grid" id="attack-grid"></div><div class="notice">작은 수 모드는 개인 지수를 쉽게 추측할 수 있습니다. Eve의 임의 키 복호화 실패는 작은 DH 자체의 안전성을 뜻하지 않습니다.</div></section>
 
         <section id="tab-guide" class="tab-content hidden">
-          <div class="section-intro"><span class="eyebrow">프로토콜을 읽는 방법</span><h2>작은 수에서 시작하는 암호 통신.</h2><p>작은 수 모드로 공개값과 공유 비밀을 계산한 뒤, 큰 수 모드와 패킷 변조 실험을 비교해 보세요. 두 공개값 교환 다음에는 키 확인과 응용 메시지 단계가 이어집니다.</p></div>
+          <div class="section-intro"><h2>작은 수에서 시작하는 암호 통신.</h2><p>작은 수 모드로 공개값과 공유 비밀을 계산한 뒤, 큰 수 모드와 패킷 변조 실험을 비교해 보세요. 두 공개값 교환 다음에는 키 확인과 응용 메시지 단계가 이어집니다.</p></div>
           <div class="guide-grid">
             <article class="panel guide-card"><span class="guide-number">01</span><h3>공개값을 보내도, 개인 지수는 보내지 않습니다.</h3><p>A = gᵃ mod p, B = gᵇ mod p를 계산합니다. 네트워크에는 AES-GCM으로 보호된 A와 B가 이동하며 a와 b는 각 프로세스 안에 남습니다.</p><code>Bᵃ mod p = Aᵇ mod p = gᵃᵇ mod p</code></article>
             <article class="panel guide-card"><span class="guide-number">02</span><h3>사전 공유키와 세션키는 다릅니다.</h3><p>K_AB는 공개값의 암호화·인증에 사용합니다. 새로운 DH 공유 비밀 S는 HKDF의 입력이고, 세션 루트 키에서 역할별 키 확인 키와 방향별 응용 키를 따로 유도합니다.</p><code>K_AB → 공개값 보호 / S → HKDF → 새 키들</code></article>
